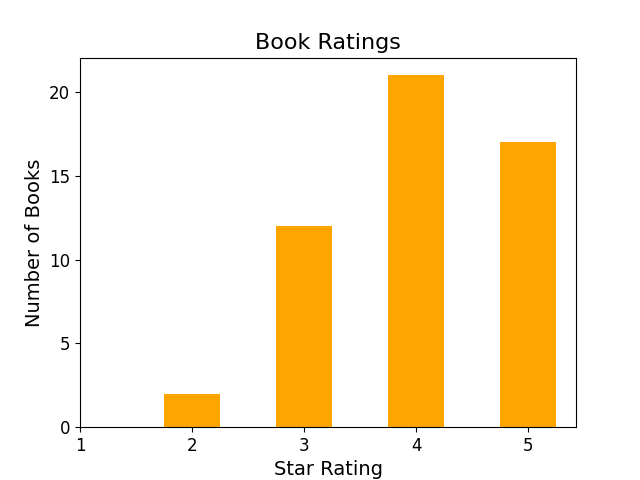
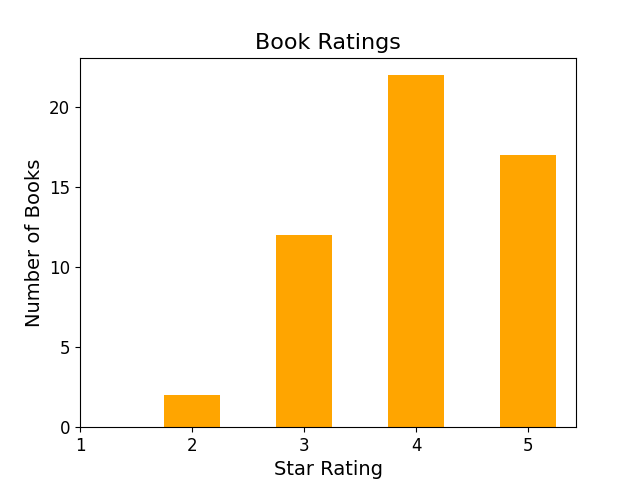
updated books and added a useful trick

diff --git a/QuantumInfo3_UsefulTricks.md b/QuantumInfo3_UsefulTricks.md
@@ -30,6 +30,7 @@ Contents:
 - [Operator Inequalities and Supports](#Operator_Inequalities_and_Supports)
 - [SWAP and Partial Transpose of Max Entangled States](#SWAP_and_Partial_Transpose_of_Max_Entangled_States)
 - [The Trace of a Product of Operators](#trace_of_product_of_operators)
+- [Post Selecting a Pure State with a Pure State](#Post_Selecting_a_Pure_State_with_a_Pure_State)
 
 (Expectation_Values_Squared_card)=
 ```{card} 
@@ -330,7 +331,7 @@ This implies that $\Pi_{A} + \Pi_M = \Pi_B$, where $\Pi_M$ is the projector onto
 ```{card} 
 :header: **SWAP and Partial Transpose of Max Entangled State** 
 
-Let $ \vert \Phi^+_{00} \rangle = (1/\sqrt{2}) \sum_{i,j=0}^1 \ket{ii} \in \mathcal{H}_A \otimes \mathcal{H}_B$. Then 
+Let $ \vert \Phi^+_{00} \rangle = (1/\sqrt{2}) \sum_{i,j=0}^1 \ket{ii} \in \mathcal{D}(\mathcal{H}_A \otimes \mathcal{H}_B)$. Then 
 \begin{equation}
  \vert \Phi^+_{00} \rangle \langle \Phi^+_{00} \vert^{t_A} = 2 ~ \mathtt{SWAP},
 \end{equation}
@@ -396,6 +397,52 @@ We now consider the second part of the right hand side of the above equation:
 &= \sum_{ij} a_{ij} b_{ji},
 \end{align*}
 completing the proof as all sides are therefore equal. 
+:::
+
+``` 
+
+(Post_Selecting_a_Pure_State_with_a_Pure_State)=
+```{card} 
+:header: **Post Selecting a Pure State with a Pure State** 
+
+Consider a bipartite space $\mathcal{H}_A \otimes \mathcal{H}_B$, and let $\vert \Phi \rangle \langle \Phi \vert \in \mathcal{D}(\mathcal{H}_A \otimes \mathcal{H}_B)$ whilst $\vert \Psi \rangle \langle \Psi \vert \in \mathcal{D}(\mathcal{H}_B)$, such that each state is a pure state in their respective spaces. Then,
+\begin{equation}
+         \textnormal{tr}_B \big[ \vert \Phi \rangle \langle \Phi \vert_{AB} (\mathbb{I}_A \otimes \vert \Psi \rangle \langle \Psi \vert_{B} ) \big] = \alpha \vert \tilde{\chi} \rangle \langle \tilde{\chi} \vert_{A},
+\end{equation}
+where $\vert \tilde{\chi} \rangle \langle \tilde{\chi} \vert \in \mathcal{D}(\mathcal{H}_A)$ and $\alpha \in [0,1]$. 
+
+:::{dropdown} Proof
+
+Using the Schmit decomposition of $\vert \Phi \rangle \langle \Phi \vert_{AB}$, it follows that 
+\begin{equation}
+  \begin{split}
+    \textrm{tr}_B & \big[ \vert \Phi \rangle \langle \Phi \vert_{AB} (\mathbb{I}_A \otimes \vert \Psi \rangle \langle \Psi \vert_B ) \big] \\
+    &= \sum_{i,j} \sqrt{\lambda_i \lambda_j} ~ \textrm{tr}_B \big[ \vert ii \rangle \langle  jj \vert (\mathbb{I}_A \otimes \vert \Psi \rangle \langle \Psi \vert) \big] \\
+    &= \sum_{i,j} \sqrt{\lambda_i \lambda_j}~ \vert i \rangle \langle  j \vert ~( \langle j \vert \Psi \rangle \langle \Psi \vert i \rangle ). \\
+  \end{split}
+\end{equation}
+One can then define 
+\begin{equation}
+        \ket{\chi} = \sum_i \lambda_i \braket{\Psi \vert i} \ket{i},
+\end{equation}
+such that 
+\begin{equation}
+         \textrm{tr}_B \big[ \vert \Phi \rangle \langle \Phi \vert_{AB} (\mathbb{I}_A \otimes \vert \Psi \rangle \langle \Psi \vert_B ) \big] = \vert \chi \rangle \langle \chi \vert.
+\end{equation}
+It can be seen that 
+\begin{equation}
+  \alpha = \textrm{tr}\big[ \chi \big] = \sum_{i} p_{i,i} \lambda_i \leq 1,
+\end{equation}
+where the inequality comes from fact that $0 \leq p_{ii} \leq 1 ~\forall~i$, as they are the diagonal elements of a density operator ($\vert \Psi \rangle \langle \Psi \vert)$, and $0 \leq \lambda_i \leq 1~\forall~i$ as they are eigenvalues of a density operator ($\vert \Phi \rangle \langle \Phi \vert_{AB}$). Hence,
+\begin{equation}
+  \vert \tilde{\chi} \rangle \langle \tilde{\chi} \vert = \frac{1}{\alpha} \vert \chi \rangle \langle \chi \vert,
+\end{equation}
+is a valid pure quantum state, such that 
+\begin{equation}
+        \alpha \vert \tilde{\chi} \rangle \langle \tilde{\chi} \vert  = \textrm{tr}_B \big[ \vert \Phi \rangle \langle \Phi \vert_{AB} (\mathbb{I}_A \otimes \vert \Psi \rangle \langle \Psi \vert_{B} ) \big],
+\end{equation}
+completing the proof. 
+
 :::
 
 ``` 

diff --git a/Miscellaneous_books.md b/Miscellaneous_books.md
@@ -94,6 +94,9 @@ Books marked with a 🛸 have been read in the current calendar year.
 - **The Spy Who Came in from the Cold**, _John le Carré_, 5 ⭐ 🛸
 - **Tinker Tailor Soldier Spy**, _John le Carré_, 5 ⭐ 🛸
 
+## Historical Fiction
+- **Shogun**, _James Clavell_, 4 ⭐ 🛸
+
 ## Other 
 
 - **Where The Crawdads Sing**, _Delia Owens_, 5 ⭐
@@ -143,9 +146,10 @@ Distribution of star ratings. Clearly I am quite generous.
 :alt: fiction_genre
 :class: bg-primary
 :width: 500px
+:height 500px
 :align: center
 
-Number of books within each fiction genre I have read. There is a clear preference to science fiction. 
+<!-- Number of books within each fiction genre I have read. There is a clear preference to science fiction.  -->
 ```
 
 ```{figure} Miscellaneous_books_non_fiction_genre.png
